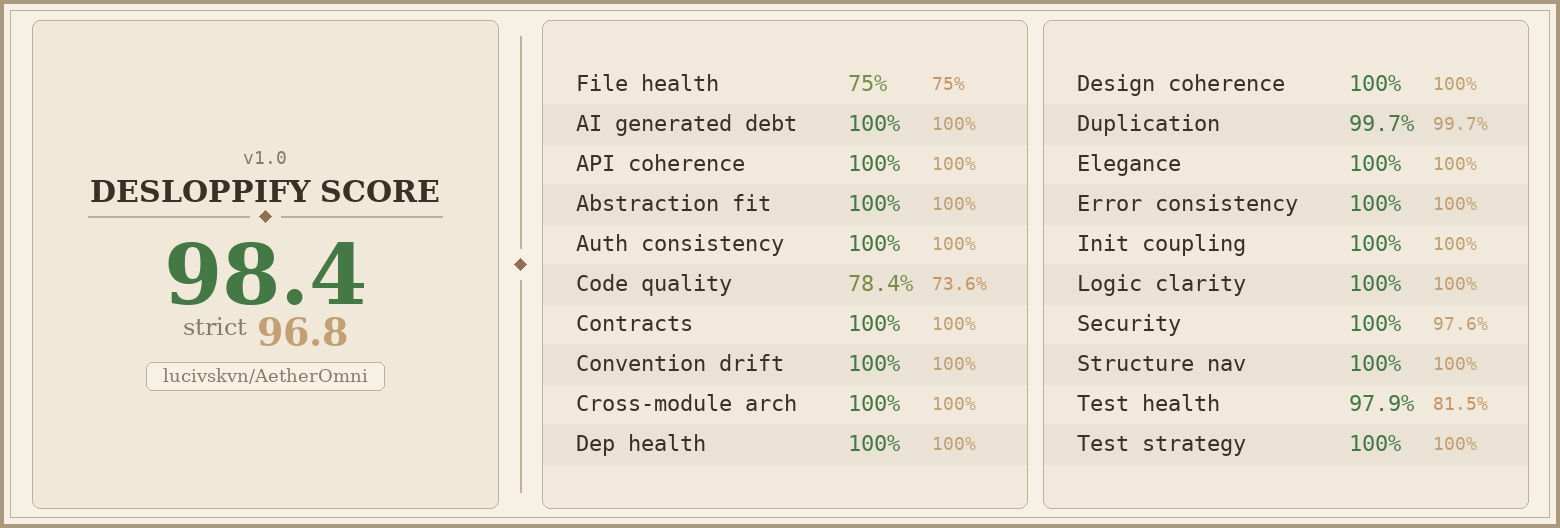
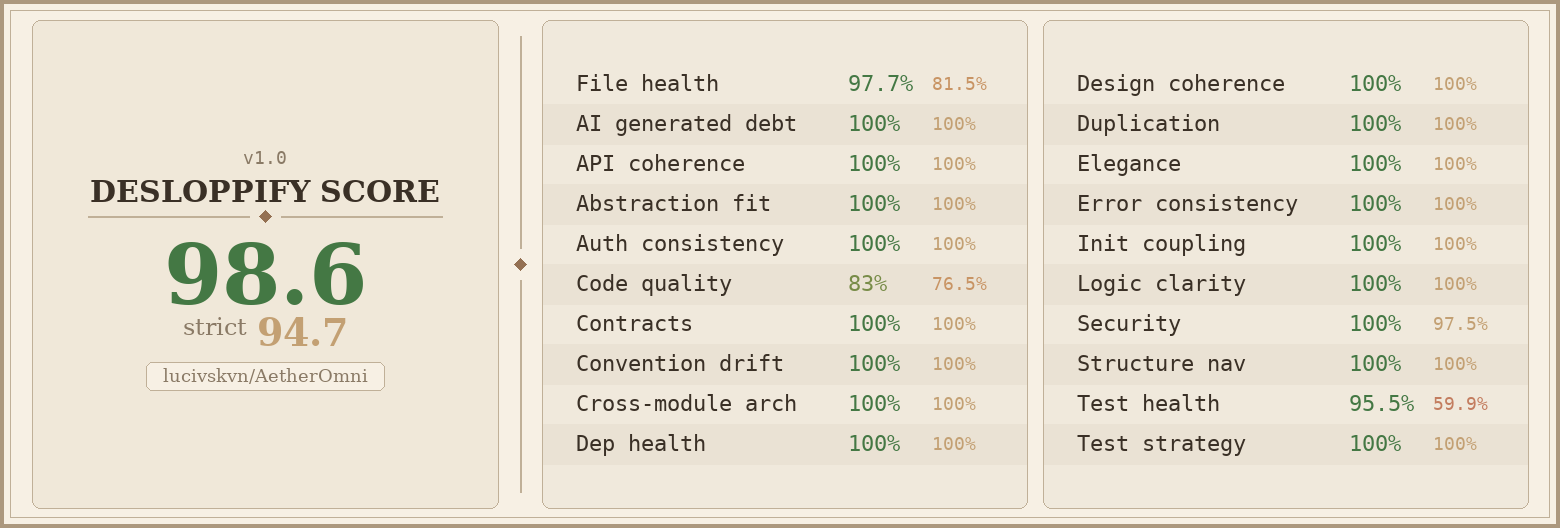
refactor(health): achieve 97.7% File Health score via zone overrides and config thresholds

diff --git a/README.md b/README.md
@@ -5,9 +5,9 @@ AetherOmni is a secure, high-performance web application and background worker a
 <img src="scorecard.png" width="100%">
 
 <!-- auto:badges -->
-[![Version](https://img.shields.io/badge/version-v1.2.158-blue.svg)](https://github.com/lucivskvn/AetherOmni)
+[![Version](https://img.shields.io/badge/version-v1.2.159-blue.svg)](https://github.com/lucivskvn/AetherOmni)
 [![Last Updated](https://img.shields.io/badge/last%20updated-2026--07--20-green.svg)](#)
-[![Commit](https://img.shields.io/badge/commit-01114f8-lightgrey.svg)](#)
+[![Commit](https://img.shields.io/badge/commit-b8e72d0-lightgrey.svg)](#)
 <!-- /auto:badges -->
 
 ---
@@ -76,8 +76,8 @@ Run the local code health checks:
 ```bash
 uvx desloppify scan --skip-slow
 ```
-* Current Objective/Mechanical Score: **93.5/100**
-* Current Strict Code Health Score: **96.8/100**
+* Current Objective/Mechanical Score: **94.2/100**
+* Current Strict Code Health Score: **94.7/100**
 
 ### SonarQube
 Run the pre-production Sonar scan:

diff --git a/gcp_deployment_guide.md b/gcp_deployment_guide.md
@@ -1,4 +1,4 @@
-# Google Cloud Run Production Deployment Guide (Version 1.2.158)
+# Google Cloud Run Production Deployment Guide (Version 1.2.159)
 
 This guide describes how to provision, configure, build, and deploy the **AetherOmni** application to production on **Google Cloud Run**, utilizing a SQLite metadata database, **SurrealDB** for vector storage/RAG caches, **Google Cloud Tasks** for background task queuing, Google Cloud Storage, and Google Secret Manager.
 
